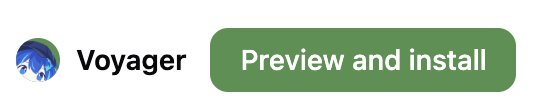
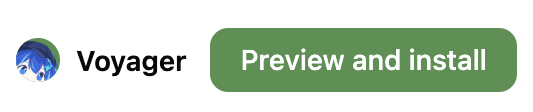
docs(create): render the docs rig at 2x so panel shots are sharp
An emulated device scale reaches the page but not the panel's own frame,
which rendered at 1x and was stretched. Chrome now starts at 2x.

diff --git a/scripts/docs-shots/run.ts b/scripts/docs-shots/run.ts
@@ -100,6 +100,8 @@ const chrome = spawn(
     `--disable-extensions-except=${EXTENSION}`,
     `--host-resolver-rules=MAP ${HOST} 127.0.0.1:${server.port}, MAP * ~NOTFOUND, EXCLUDE 127.0.0.1`,
     '--ignore-certificate-errors',
+    // The whole browser at 2x: an emulated scale reaches the page but not the panel's frame.
+    '--force-device-scale-factor=2',
     '--remote-debugging-port=0',
     '--no-first-run',
     '--no-default-browser-check',
